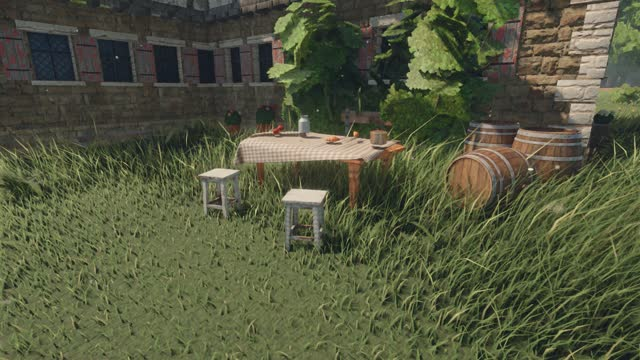
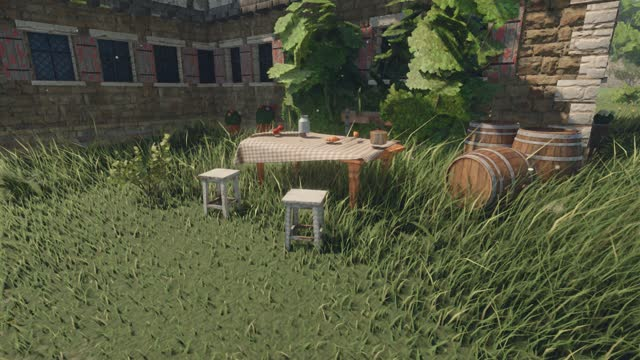
samples site: scanned-realm's registry entry, poster and the round's new stills
- docs/skills.json: tagline, tags, stats and worked examples for whole scanned trees, scanned structures, the lens;
  the hub rebuilt
- poster: the old fort, the scanned pier through the lens, the scanned thorn in autumn, the fruit stall through the lens
- fourteen new stills (640 px): fort ×5, pier, churchyard gate, thorn ×3, grove, lens ×3

Claude-Session: https://claude.ai/code/session_01LWivNcVwP3rNy2cHxZfhGs

diff --git a/docs/index.html b/docs/index.html
@@ -590,12 +590,12 @@
   </div>
 </article>
 <article class="card" id="scanned-realm" data-id="scanned-realm">
-  <a class="img" href="scanned-realm/" tabindex="-1"><img src="scanned-realm/poster.jpg" alt="scanned-realm으로 만든 「은여울 마을」의 장면 네 개: 층이 진 스캔 암벽과 바위가 놓인 숲, 스캔 과일과 바구니가 놓인 장터 좌판, 스캔 나무껍질과 고사리의 깊은 숲, 방패와 연장이 놓인 대장간 앞" width="1200" height="675"></a>
+  <a class="img" href="scanned-realm/" tabindex="-1"><img src="scanned-realm/poster.jpg" alt="scanned-realm으로 만든 「은여울 마을」의 장면 네 개: 스캔 돌 성벽과 둥근 망루가 선 옛 성터, 밧줄이 걸린 기중 틀과 널판 데크의 스캔 부두, 금빛으로 물든 통째 스캔 나무, 피사계 심도로 배경이 흐려진 과일 좌판" width="1200" height="675"></a>
   <div class="body">
     <h3><a href="scanned-realm/">scanned-realm</a></h3>
-    <p class="tagline">장소 하나를 주면(MMORPG 마을 · 항구 · 산사 · 야영지) 브라우저에서 걸어 다니는 3D 세계를 만듭니다. living-realm 엔진에서 &quot;에셋 없이 HTML 한 파일&quot; 조건을 푼 스킬로, 자갈길 · 돌담 · 회벽 · 기와 · 목재 · 흙길 · 숲 바닥 · 바위 · 나무껍질은 실물을 촬영한 PBR 스캔 재질을 실제 크기로 쓰고, 통 · 탁자 · 바구니 · 그릇 · 연장 · 좌판의 과일과 빵 · 바위 · 암벽은 포토그래메트리 모델을 인스턴싱과 LOD(화면에서 삼각형이 두 픽셀쯤 되는 단계)로 그리며, 고사리 · 쐐기풀 · 들꽃은 스캔 식생, 나뭇잎은 촬영한 잎과 잔가지 사진입니다. 모두 Poly Haven의 CC0 에셋을 장소마다 목록으로 받아 와 엔진의 표면 법칙으로 그리므로 같은 햇빛 · 거리에 따라 번지는 그림자 · 비 · 웅덩이 · 이끼 · 눈을 받습니다. 페이지는 생성 재질로 바로 시작하고 스캔은 걷는 동안 도착합니다. 땅 · 건물 · 나무 줄기 · 풀 · 하늘 · 날씨 · 빛 · 소리는 코드로 만들고, 시간과 날씨가 이어서 바뀌며, 키보드 · 마우스 · 터치 · 게임패드로 걷습니다.</p>
-    <p class="stats">예제 「은여울 마을」 · 스캔 재질 18종 · 모델 50종 · 잎 아틀라스 3종 · 스캔 126 MB는 저장소 밖 · 걷는 동안 Poly Haven 서버에서 도착</p>
-    <ul class="tags"><li>WebGL 2 디퍼드</li><li>스캔 재질 · 모델 · 식생 · 잎</li><li>인스턴싱 · LOD</li><li>Poly Haven · CC0</li><li>낮밤 · 비 · 겨울</li><li>키보드 · 터치 · 게임패드</li></ul>
+    <p class="tagline">장소 하나를 주면(MMORPG 마을 · 항구 · 산사 · 야영지) 브라우저에서 걸어 다니는 3D 세계를 만듭니다. living-realm 엔진에서 &quot;에셋 없이 HTML 한 파일&quot; 조건을 푼 스킬로, 자갈길 · 돌담 · 회벽 · 기와 · 목재 · 흙길 · 숲 바닥 · 바위 · 나무껍질은 실물을 촬영한 PBR 스캔 재질을 실제 크기로 쓰고, 통 · 탁자 · 바구니 · 그릇 · 연장 · 좌판의 과일과 빵 · 바위 · 암벽은 포토그래메트리 모델을 인스턴싱과 LOD(화면에서 삼각형이 두 픽셀쯤 되는 단계)로 그리며, 고사리 · 쐐기풀 · 들꽃은 스캔 식생, 나뭇잎은 촬영한 잎과 잔가지 사진입니다. 통째로 스캔한 나무 · 묘목 · 관목이 엔진의 나무 사이에 서고(LOD 7단계를 도착할 때 만들며 휴대폰에는 보내지 않음), 조각을 맞춰 세우는 스캔 구조물(성벽 · 성문 · 둥근 망루 · 부두 · 철문)도 놓입니다. 모두 Poly Haven의 CC0 에셋을 장소마다 목록으로 받아 와 엔진의 표면 법칙으로 그리므로 같은 햇빛 · 거리에 따라 번지는 그림자 · 비 · 웅덩이 · 이끼 · 눈을 받습니다. 페이지는 생성 재질로 바로 시작하고 스캔은 걷는 동안 도착합니다. 땅 · 집 · 숲의 나무 · 풀 · 하늘 · 날씨 · 빛 · 소리는 코드로 만들고, 시간과 날씨가 이어서 바뀌며, 자동 산책에는 보는 곳에 초점이 맞는 렌즈(피사계 심도)가 걸리고, 키보드 · 마우스 · 터치 · 게임패드로 걷습니다.</p>
+    <p class="stats">예제 「은여울 마을」 · 스캔 재질 18종 · 모델 58종 · 잎 아틀라스 3종 · 스캔 254 MB(휴대폰은 149 MB)는 저장소 밖 · 걷는 동안 Poly Haven 서버에서 도착</p>
+    <ul class="tags"><li>WebGL 2 디퍼드</li><li>스캔 재질 · 모델 · 식생 · 잎</li><li>통째 스캔 나무 · 성벽 · 부두</li><li>인스턴싱 · LOD</li><li>피사계 심도</li><li>Poly Haven · CC0</li><li>낮밤 · 비 · 겨울</li><li>키보드 · 터치 · 게임패드</li></ul>
     <p class="from">만든 출처: <a href="https://x.com/RezAIT00/status/2120498246426706176?a=CUYTAAEWhBIL6PS4ZPk&amp;s=19" target="_blank" rel="noopener">Rez(@RezAIT00)의 X 게시물 (&quot;This is fable 5.2 with blender and unreal&quot; — 언리얼 엔진으로 렌더한 숲과 초원 48초 영상): 목표로 삼은 화면</a> · <a href="https://claude.ai/artifact/D8t6NHbpDJXtCovZU6KADP" target="_blank" rel="noopener">「Larkhollow」 — @lucian__03의 코드 생성 농장 (Claude 아티팩트): 엔진의 톤 · 대기 · 풀을 견준 레퍼런스</a> · <a href="https://claude.ai/artifact/BGY1SztrAYcJQHSsnHHGmp" target="_blank" rel="noopener">「Saltline」 — 코드로 생성하는 항구 게임 (Claude 아티팩트): 낮은 키의 톤과 비에 젖은 바닥을 견준 레퍼런스</a> · <a href="https://polyhaven.com" target="_blank" rel="noopener">Poly Haven — 스캔 재질과 모델의 출처 (CC0, 저장소에는 넣지 않고 장소마다 받아 옴)</a></p>
     <div class="btns"><a class="btn p" href="scanned-realm/">샘플 페이지</a><a class="btn" href="https://github.com/jungrok5/motion-skills/blob/main/scanned-realm/SKILL.md">SKILL.md</a><a class="btn" href="https://github.com/jungrok5/motion-skills/tree/main/scanned-realm">폴더</a></div>
   </div>
